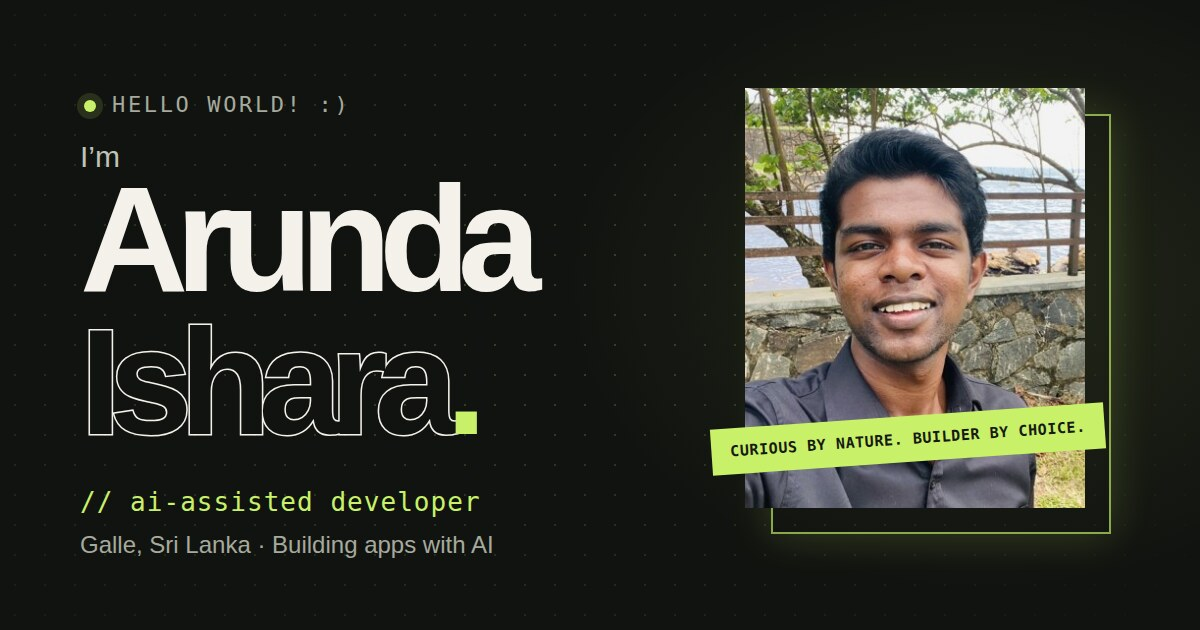
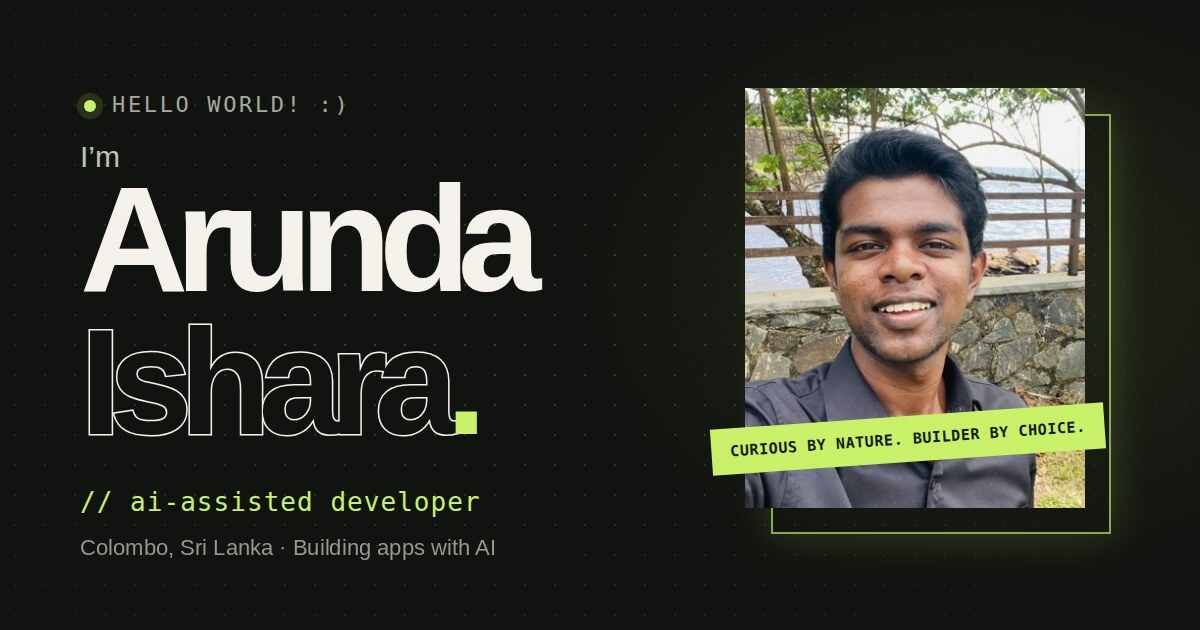
Add files via upload

Changed region(s): [[0.0617, 0.8444, 0.4317, 0.9048]]

diff --git a/index.html b/index.html
@@ -18,21 +18,21 @@
   <link rel="manifest" href="manifest.webmanifest">
 
   <title>Arunda Ishara — AI-Assisted Developer</title>
-  <meta name="description" content="Arunda Ishara from Galle, Sri Lanka. I build apps with AI tools and turn ideas into useful digital experiences.">
+  <meta name="description" content="Arunda Ishara from Colombo, Sri Lanka. I build web apps, websites and tools with AI. See iLike and my other work.">
   <meta property="og:title" content="Arunda Ishara — AI-Assisted Developer">
-  <meta property="og:description" content="I turn ideas into useful digital experiences. Explore my work and get in touch.">
+  <meta property="og:description" content="I build web apps, websites and tools with AI. See iLike and my other work.">
   <meta property="og:type" content="website">
   <meta property="og:site_name" content="Arunda Ishara">
   <meta name="twitter:card" content="summary_large_image">
   <meta name="twitter:title" content="Arunda Ishara — AI-Assisted Developer">
-  <meta name="twitter:description" content="I turn ideas into useful digital experiences. Explore my work and get in touch.">
+  <meta name="twitter:description" content="I build web apps, websites and tools with AI. See iLike and my other work.">
   <!-- Link preview (WhatsApp, Instagram, LinkedIn, etc.) -->
   <meta property="og:url" content="https://arund-dev.github.io/portfolio/">
   <meta property="og:image" content="https://arund-dev.github.io/portfolio/assets/og-image.jpg">
   <meta property="og:image:type" content="image/jpeg">
   <meta property="og:image:width" content="1200">
   <meta property="og:image:height" content="630">
-  <meta property="og:image:alt" content="Arunda Ishara, AI-assisted developer from Galle, Sri Lanka">
+  <meta property="og:image:alt" content="Arunda Ishara, AI-assisted developer from Colombo, Sri Lanka">
   <meta name="twitter:image" content="https://arund-dev.github.io/portfolio/assets/og-image.jpg">
   <link rel="canonical" href="https://arund-dev.github.io/portfolio/">
   <script type="application/ld+json">
@@ -46,8 +46,8 @@
       "url": "https://arund-dev.github.io/portfolio/",
       "image": "https://arund-dev.github.io/portfolio/assets/photo.jpg",
       "jobTitle": "AI-Assisted Developer",
-      "description": "AI-assisted developer from Galle, Sri Lanka, building installable web apps with HTML, CSS, JavaScript and Supabase.",
-      "address": { "@type": "PostalAddress", "addressLocality": "Galle", "addressCountry": "LK" },
+      "description": "AI-assisted developer from Colombo, Sri Lanka, building installable web apps with HTML, CSS, JavaScript and Supabase.",
+      "address": { "@type": "PostalAddress", "addressLocality": "Colombo", "addressCountry": "LK" },
       "knowsAbout": ["Web development", "Progressive web apps", "HTML", "CSS", "JavaScript", "Supabase"],
       "knowsLanguage": ["Sinhala", "English", "Tamil"],
       "sameAs": [
@@ -164,11 +164,7 @@
         <div class="hero-visual">
           <div class="portrait-wrap">
             <div class="portrait-frame"><img class="portrait" src="assets/photo.jpg" fetchpriority="high" width="800" height="940" alt="Portrait of Arunda Ishara with the sea behind him"></div>
-            <span class="portrait-label" data-text="no its not">isnt this pic cute</span>
-            <span class="photo-note" aria-hidden="true">
-              <span class="photo-note-text">that's me :)</span>
-              <svg class="photo-note-arrow" viewBox="0 0 70 60" preserveAspectRatio="none"><path pathLength="1" d="M6 6 C 8 34, 30 50, 56 46"/><path pathLength="1" class="head" d="M44 36 L58 46 L42 54"/></svg>
-            </span>
+            <span class="portrait-label" data-text="await hire(me); // plzz..🥲"><span class="t-a">await hire(me); // open to work</span><span class="t-b" aria-hidden="true">await hire(me); // plzz..🥲</span></span>
             <span class="portrait-code" aria-hidden="true"><span class="c-punct">&lt;</span><span class="c-tag">img</span> <span class="c-attr">src</span><span class="c-punct">=</span><span class="c-str squiggle">"arunda.jpg"</span><span class="c-punct">&gt;</span></span>
           </div>
           <div class="hero-actions">
@@ -188,10 +184,10 @@
     <!-- Ticker -->
     <div class="ticker" role="group" aria-label="Skills and interests">
       <div class="wrap ticker-track">
-        <span><b aria-hidden="true">•</b> BUILDING WITH AI</span>
         <span><b aria-hidden="true">•</b> WEB &amp; APP IDEAS</span>
+        <span><b aria-hidden="true">•</b> BUILDING WITH AI</span>
+        <span><b aria-hidden="true">•</b> FIXING WHAT BREAKS</span>
         <span><b aria-hidden="true">•</b> ALWAYS LEARNING</span>
-        <span><b aria-hidden="true">•</b> CREATIVE PROBLEM SOLVING</span>
       </div>
     </div>
 
@@ -205,7 +201,7 @@
 
         <div class="about-grid">
           <div class="about-copy reveal">
-            <p>I enjoy exploring what technology can make possible. I like figuring out how things work, trying ideas, and sticking with a problem until I can get it working on my own phone.</p>
+            <p>I enjoy exploring what technology can make possible. I like figuring out how things work, trying ideas, and sticking with a problem until I can get it working. I use AI tools like Claude to build the first version, then test it, fix what breaks, and work out why it broke. So far that has meant iLike, an installable social app, and Nexus, a website for a tech solutions company.</p>
             <p>I’m at the beginning of my professional journey, bringing <strong>curiosity, persistence, and a willingness to learn</strong> to every project.</p>
 
             <div class="about-cols">
@@ -295,12 +291,12 @@ say(&quot;வணக்கம்&quot;);">
           </div>
 
           <p class="project-description">
-            iLike is a social app for finding people with shared interests. It brings profiles, interest circles, photo posts and chat into one place, with a layout made for phones as well as desktop.
+            iLike is a social app concept for sharing posts, chatting in interest circles and finding local events in Sri Lanka. It brings profiles, photo posts and chat into one place, with a layout made for phones as well as desktop.
           </p>
 
           <div class="project-meta">
             <div><span>MY APPROACH</span><span>AI-assisted building</span></div>
-            <div><span>FOCUS</span><span>Social discovery</span></div>
+            <div><span>FOCUS</span><span>Interests and events</span></div>
             <div><span>FORMAT</span><span>Web app · installable</span></div>
           </div>
 
@@ -318,9 +314,48 @@ say(&quot;வணக்கம்&quot;);">
           </div>
 
           <div class="project-bottom">
-            <p>Still a work in progress.</p>
+            <p>Live demo, invite-only.</p>
             <a class="text-link" href="https://iliketeam.github.io/landing/" target="_blank" rel="noopener noreferrer">
               Try iLike
+              <svg class="icon icon--lg" aria-hidden="true"><use href="#i-arrow-up-right"/></svg>
+            </a>
+          </div>
+        </article>
+
+        <article class="project project--nexus reveal">
+          <span class="project-tag">PROJECT · 02</span>
+
+          <div class="project-title">
+            <h3>Nexus</h3>
+          </div>
+
+          <p class="project-description">
+            Nexus is a website for a tech solutions company, with services, work, quote and contact sections. Its quote builder lets visitors pick features and a timeline and watch the price update as they go.
+          </p>
+
+          <div class="project-meta">
+            <div><span>MY APPROACH</span><span>AI-assisted, solo build</span></div>
+            <div><span>FOCUS</span><span>Business website</span></div>
+            <div><span>FORMAT</span><span>Responsive website</span></div>
+          </div>
+
+          <div class="project-showcase">
+            <div class="shot-desktop">
+              <button class="shot-open" type="button" aria-label="Enlarge screenshot: Nexus on desktop">
+                <img src="assets/nexus-desktop.jpg" width="1100" height="578" alt="Nexus home page with the headline Software your business runs on" loading="lazy">
+              </button>
+            </div>
+            <div class="shot-phone">
+              <button class="shot-open" type="button" aria-label="Enlarge screenshot: Nexus on mobile">
+                <img src="assets/nexus-mobile.jpg" width="600" height="1039" alt="Nexus home page on a phone" loading="lazy">
+              </button>
+            </div>
+          </div>
+
+          <div class="project-bottom">
+            <p>Built solo with Claude and VS Code.</p>
+            <a class="text-link" href="https://nexusportalsteam-maker.github.io/nexus-portals/" target="_blank" rel="noopener noreferrer">
+              Visit site
               <svg class="icon icon--lg" aria-hidden="true"><use href="#i-arrow-up-right"/></svg>
             </a>
           </div>

diff --git a/styles.css b/styles.css
@@ -540,9 +540,9 @@ header.scrolled .brandmark {
   text-align: center;
   background: var(--accent);
   color: var(--accent-ink);
-  font: 11px var(--mono);
-  letter-spacing: 0.08em;
-  text-transform: uppercase;
+  font: 12px var(--mono);
+  letter-spacing: 0.06em;
+  white-space: nowrap;
   transform: rotate(-4deg);
   animation: strip-flicker 6s steps(1, end) infinite;
 }
@@ -569,33 +569,80 @@ header.scrolled .brandmark {
   animation: strip-ghost-b 6s steps(1, end) infinite;
 }
 
-/* One short glitch burst per 6s cycle, then stable for a while */
+/* Two glitch bursts per 6s: "open to work" glitches into "plzzz", that holds for 0.75s, then it glitches back */
 @keyframes strip-flicker {
-  0%, 92%, 100% { transform: rotate(-4deg); opacity: 1; }
-  82% { opacity: 0.45; }
-  83% { opacity: 1; }
-  84% { transform: rotate(-4deg) translate(-3px, 0) skewX(-8deg); }
-  86% { transform: rotate(-4deg) translate(3px, 1px) skewX(6deg); opacity: 0.8; }
-  88% { transform: rotate(-4deg) translate(-2px, 0); opacity: 1; }
-  89% { transform: rotate(-4deg) translate(2px, -1px) skewX(-4deg); }
-  90% { transform: rotate(-4deg); opacity: 0.6; }
-  91% { opacity: 1; }
+  0% { transform: rotate(-4deg); opacity: 1; }
+  77% { opacity: 0.45; }
+  77.5% { opacity: 1; }
+  78% { transform: rotate(-4deg) translate(-3px, 0) skewX(-8deg); }
+  79% { transform: rotate(-4deg) translate(3px, 1px) skewX(6deg); opacity: 0.8; }
+  80% { transform: rotate(-4deg) translate(-2px, 0); opacity: 1; }
+  80.5% { transform: rotate(-4deg) translate(2px, -1px) skewX(-4deg); }
+  81% { transform: rotate(-4deg); opacity: 1; }
+  93.5% { opacity: 0.45; }
+  94% { opacity: 1; }
+  94.5% { transform: rotate(-4deg) translate(-3px, 0) skewX(-8deg); }
+  95.5% { transform: rotate(-4deg) translate(3px, 1px) skewX(6deg); opacity: 0.8; }
+  96.5% { transform: rotate(-4deg) translate(-2px, 0); opacity: 1; }
+  97% { transform: rotate(-4deg) translate(2px, -1px) skewX(-4deg); }
+  97.5% { transform: rotate(-4deg); opacity: 1; }
+  100% { transform: rotate(-4deg); opacity: 1; }
+}
+
+@keyframes strip-text-a {
+  0%, 78.9% { opacity: 1; }
+  79%, 95.4% { opacity: 0; }
+  95.5%, 100% { opacity: 1; }
+}
+
+@keyframes strip-text-b {
+  0%, 78.9% { opacity: 0; }
+  79%, 95.4% { opacity: 1; }
+  95.5%, 100% { opacity: 0; }
 }
 
 @keyframes strip-ghost-a {
-  0%, 91%, 100% { opacity: 0; }
-  84% { opacity: 1; transform: translate(-3px, 0); clip-path: inset(0 0 55% 0); }
-  86% { opacity: 1; transform: translate(3px, 0); clip-path: inset(45% 0 0 0); }
-  88% { opacity: 1; transform: translate(-2px, 0); clip-path: inset(20% 0 40% 0); }
-  90% { opacity: 1; transform: translate(-3px, 0); clip-path: inset(0 0 30% 0); }
+  0% { opacity: 0; }
+  77.5% { opacity: 1; transform: translate(-3px, 0); clip-path: inset(0 0 55% 0); }
+  78.5% { opacity: 1; transform: translate(3px, 0); clip-path: inset(45% 0 0 0); }
+  79.5% { opacity: 1; transform: translate(-2px, 0); clip-path: inset(20% 0 40% 0); }
+  80.5% { opacity: 1; transform: translate(-3px, 0); clip-path: inset(0 0 30% 0); }
+  81.5% { opacity: 0; }
+  94% { opacity: 1; transform: translate(-3px, 0); clip-path: inset(0 0 55% 0); }
+  95% { opacity: 1; transform: translate(3px, 0); clip-path: inset(45% 0 0 0); }
+  96% { opacity: 1; transform: translate(-2px, 0); clip-path: inset(20% 0 40% 0); }
+  97% { opacity: 1; transform: translate(-3px, 0); clip-path: inset(0 0 30% 0); }
+  98% { opacity: 0; }
 }
 
 @keyframes strip-ghost-b {
-  0%, 91%, 100% { opacity: 0; }
-  84% { opacity: 1; transform: translate(3px, 0); clip-path: inset(50% 0 0 0); }
-  86% { opacity: 1; transform: translate(-3px, 0); clip-path: inset(0 0 50% 0); }
-  88% { opacity: 1; transform: translate(2px, 0); clip-path: inset(55% 0 5% 0); }
-  90% { opacity: 1; transform: translate(3px, 0); clip-path: inset(40% 0 0 0); }
+  0% { opacity: 0; }
+  77.5% { opacity: 1; transform: translate(3px, 0); clip-path: inset(50% 0 0 0); }
+  78.5% { opacity: 1; transform: translate(-3px, 0); clip-path: inset(0 0 50% 0); }
+  79.5% { opacity: 1; transform: translate(2px, 0); clip-path: inset(55% 0 5% 0); }
+  80.5% { opacity: 1; transform: translate(3px, 0); clip-path: inset(40% 0 0 0); }
+  81.5% { opacity: 0; }
+  94% { opacity: 1; transform: translate(3px, 0); clip-path: inset(50% 0 0 0); }
+  95% { opacity: 1; transform: translate(-3px, 0); clip-path: inset(0 0 50% 0); }
+  96% { opacity: 1; transform: translate(2px, 0); clip-path: inset(55% 0 5% 0); }
+  97% { opacity: 1; transform: translate(3px, 0); clip-path: inset(40% 0 0 0); }
+  98% { opacity: 0; }
+}
+
+.portrait-label .t-a,
+.portrait-label .t-b {
+  display: block;
+  animation: 6s steps(1, end) infinite;
+}
+
+.portrait-label .t-a { animation-name: strip-text-a; }
+
+.portrait-label .t-b {
+  position: absolute;
+  inset: 0;
+  padding: inherit;
+  opacity: 0;
+  animation-name: strip-text-b;
 }
 
 /* Editor-style title: <img src="..."> with a VS Code error squiggle */
@@ -1609,7 +1656,7 @@ footer a {
   .portrait-label {
     left: -12px;
     padding: 11px 8px;
-    font-size: 10px;
+    font-size: 10.5px;
     letter-spacing: 0.04em;
     white-space: nowrap;
   }
@@ -1724,7 +1771,7 @@ footer a {
 
   .portrait-label {
     padding: 8px;
-    font-size: min(10px, 2.7vw);
+    font-size: min(11px, 3vw);
     letter-spacing: 0.04em;
     white-space: nowrap;
   }
@@ -2127,4 +2174,15 @@ footer a {
   .content-section.contact-section {
     padding-top: 76px;
   }
+}
+
+
+/* Nexus phone screenshot is cropped to the page area, so give it its own shape */
+.project--nexus .shot-phone { aspect-ratio: 600 / 1039; top: 4%; }
+
+/* space between project cards */
+.project + .project {
+  margin-top: 72px;
+  padding-top: 56px;
+  border-top: 1px solid var(--line);
 }
